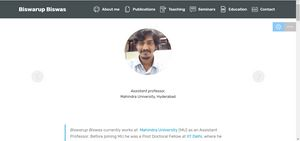
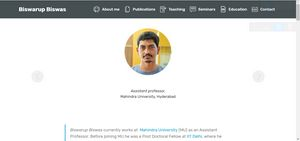
updated

Changed region(s): [[0.39, 0.1702, 0.6, 0.539], [0.9, 0.1418, 0.99, 0.227]]

diff --git a/index.html b/index.html
@@ -63,7 +63,7 @@
     </nav>
 </section>
 
-<section class="engine"><a href="https://mobirise.info/f">easy website maker</a></section><section class="carousel slide testimonials-slider cid-sb7eOIbreY" data-interval="false" id="testimonials-slider1-0">
+<section class="engine"><a href="https://mobirise.info/i">site creation software</a></section><section class="carousel slide testimonials-slider cid-sb7eOIbreY" data-interval="false" id="testimonials-slider1-0">
     
     
 
@@ -79,7 +79,7 @@
             <div class="carousel-item">
                     <div class="user col-md-8">
                         <div class="user_image">
-                            <img src="assets/images/119636834-3210084032442361-1786110134186814187-n-400x400.jpg" alt="" title="">
+                            <img src="assets/images/biswarup-biswas-332x390.jpg" alt="" title="">
                         </div>
                         <div class="user_text pb-3">
                             <p class="mbr-fonts-style display-7"><em><br></em><em>Assistant professor,</em><br> Mahindra University, Hyderabad</p>
@@ -273,7 +273,17 @@
                 
                 
                 
-              <td class="body-item mbr-fonts-style display-7">Teaching assistant</td><td class="body-item mbr-fonts-style display-7"><a href="http://maths.iitd.ac.in/drupal/courses/mtl290" class="text-primary" target="_blank">MTP290 COMPUTING LABORATORY</a></td><td class="body-item mbr-fonts-style display-7">IIT Delhi</td><td class="body-item mbr-fonts-style display-7">&nbsp;Feb – May 2021</td></tr></tbody>
+              <td class="body-item mbr-fonts-style display-7">Teaching assistant</td><td class="body-item mbr-fonts-style display-7"><a href="http://maths.iitd.ac.in/drupal/courses/mtl290" class="text-primary" target="_blank">MTP290 COMPUTING LABORATORY</a></td><td class="body-item mbr-fonts-style display-7">IIT Delhi</td><td class="body-item mbr-fonts-style display-7">&nbsp;Feb – May 2021</td></tr><tr>
+                
+                
+                
+                
+              <td class="body-item mbr-fonts-style display-7">Instructor</td><td class="body-item mbr-fonts-style display-7">PROGRAMMING WORKSHOP (R programming and GPU computing)</td><td class="body-item mbr-fonts-style display-7">Mahindra University</td><td class="body-item mbr-fonts-style display-7">&nbsp;Aug – Nov 2021</td></tr><tr>
+                
+                
+                
+                
+              <td class="body-item mbr-fonts-style display-7">Teaching assistant</td><td class="body-item mbr-fonts-style display-7">MATHS-III (Probability and Statistics)</td><td class="body-item mbr-fonts-style display-7">Mahindra University</td><td class="body-item mbr-fonts-style display-7">&nbsp; Aug – Nov 2021</td></tr></tbody>
           </table>
         </div>
         <div class="container table-info-container">

diff --git a/mtp290.html b/mtp290.html
@@ -62,7 +62,7 @@
     </nav>
 </section>
 
-<section class="engine"><a href="https://mobirise.info/f">simple website builder</a></section><section class="timeline1 cid-sqdIOTHB2K" id="timeline1-a">
+<section class="engine"><a href="https://mobirise.info/p">site templates free download</a></section><section class="timeline1 cid-sqdIOTHB2K" id="timeline1-a">
 
     
 
